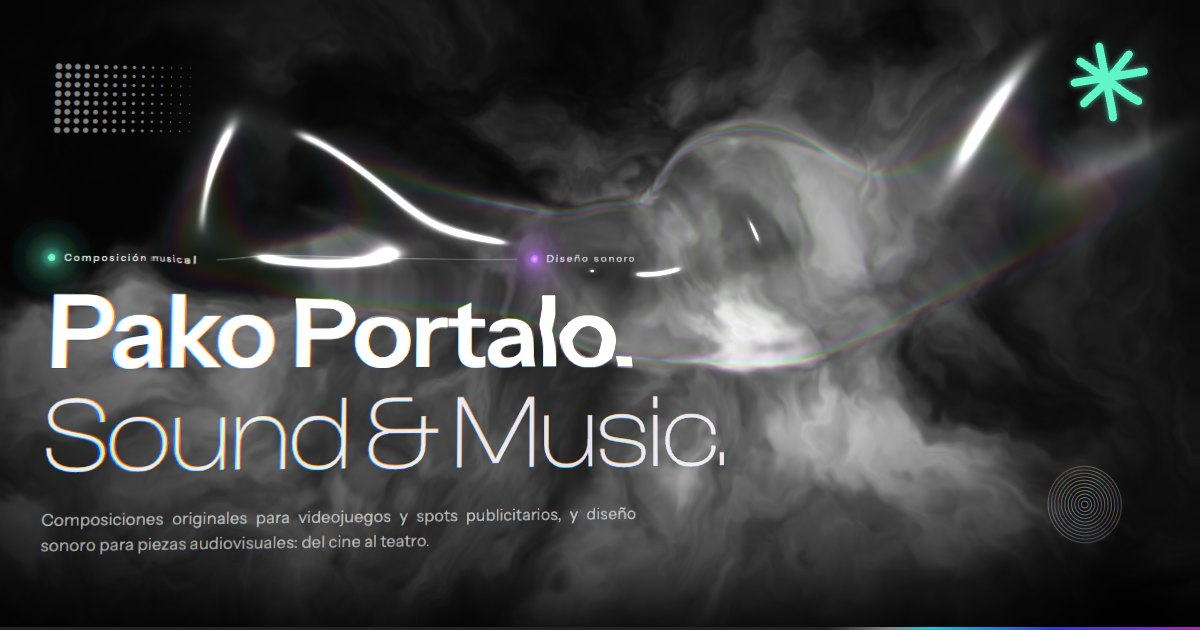
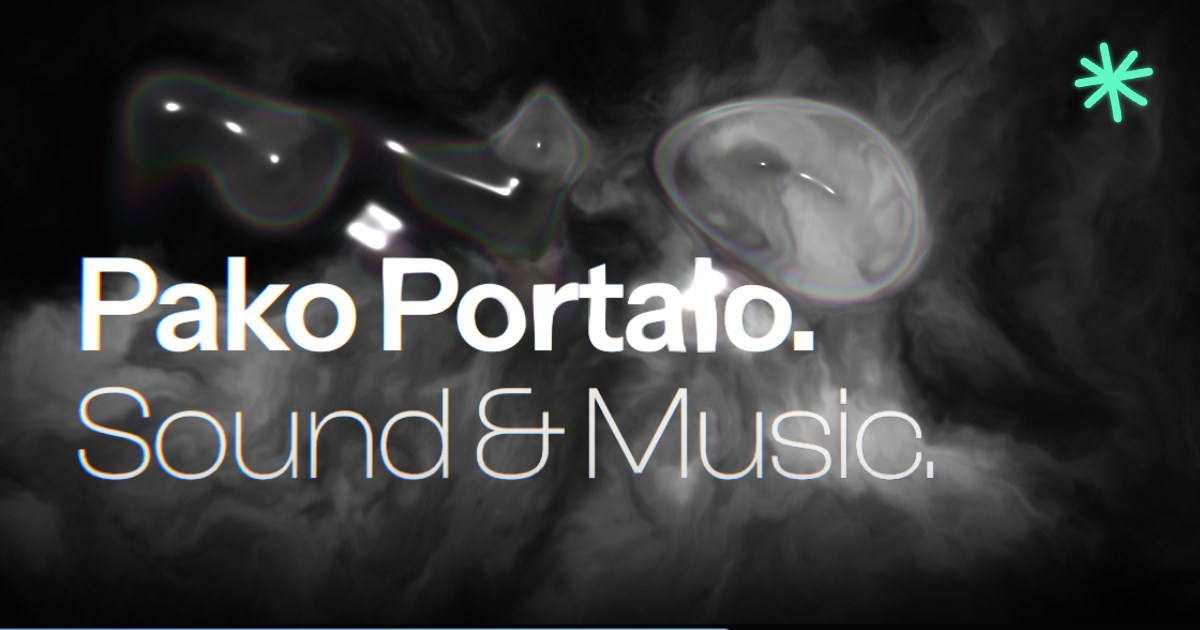
Imagen de compartir: solo el nombre y Sound & Music. en grande sobre el humo y la pompa

Changed region(s): [[0.0, 0.0603, 0.9867, 0.8746], [0.0, 0.9952, 1.0, 1.0], [0.8633, 0.7238, 0.9558, 0.8746]]

diff --git a/src/i18n/textos.ts b/src/i18n/textos.ts
@@ -15,7 +15,7 @@ const es = {
   meta: {
     locale: 'es_ES',
     imagen: 'og-es.jpg',
-    imagenAlt: 'Pako Portalo. Sound & Music. Composición musical y diseño sonoro.',
+    imagenAlt: 'Pako Portalo. Sound & Music.',
     rol: 'Compositor y diseñador de sonido',
     titulo: 'Pako Portalo — Composición musical y diseño sonoro',
     descripcion:
@@ -84,7 +84,7 @@ const en: typeof es = {
   meta: {
     locale: 'en_GB',
     imagen: 'og-en.jpg',
-    imagenAlt: 'Pako Portalo. Sound & Music. Music composition and sound design.',
+    imagenAlt: 'Pako Portalo. Sound & Music.',
     rol: 'Composer and sound designer',
     titulo: 'Pako Portalo — Music composition and sound design',
     descripcion:

diff --git a/src/scripts/liquid/hero.ts b/src/scripts/liquid/hero.ts
@@ -724,6 +724,9 @@ export async function createLiquidHero(
 
     let cursorX = margin;
 
+    // Sin etiquetas (la imagen de compartir), sin fila.
+    const conFila = Boolean(copy.eyebrowLeft || copy.eyebrowRight);
+    if (conFila) {
     neonDot(cursorX + dotRadius, rowY, dotRadius, NEON_GREEN);
     cursorX += dotSpan;
 
@@ -740,6 +743,7 @@ export async function createLiquidHero(
 
     textContext.fillStyle = 'rgba(255, 255, 255, 0.6)';
     textContext.fillText(copy.eyebrowRight, cursorX, eyebrowBaseline);
+    }
 
     // --- Marcas gráficas, en el aire que deja libre el texto ---
     // Van en el canvas y no en HTML porque son decoración: si el agua no las
